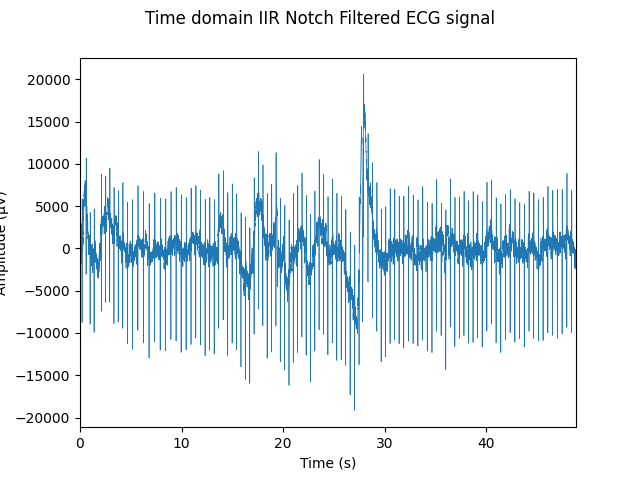
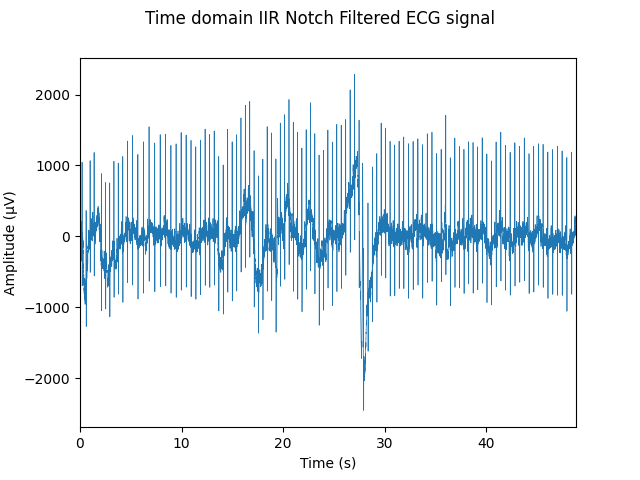
IIR working

diff --git a/main.py b/main.py
@@ -113,22 +113,23 @@ def calculateGainFactor(numerator, denominator, passband_freq, sampling_freq):
 
     # Calculate the value of the numerator and denominator by iterating through each tap
     exp_array = [1, np.exp(1j * 2 * np.pi * passband_freq), np.exp(2j * 2 * np.pi * passband_freq)]
-    #numerator_sum = np.dot(numerator, exp_array)
-    #denominator_sum = np.dot(denominator, exp_array)
-    for delay_index in range(len(numerator)):
+    numerator_sum = np.dot(numerator, exp_array)
+    denominator_sum = np.dot(denominator, exp_array)
+    #for delay_index in range(len(numerator)):
 
         # Calculate the value of the numerator at tap
-        numerator_coeff = numerator[delay_index] # Extract numerator tap coefficent
-        numerator_sum += numerator_coeff * ((np.exp(1j * 2 * np.pi * angle)) ** (-delay_index)) # Add transfer function value to numerator sum
+       # numerator_coeff = numerator[delay_index] # Extract numerator tap coefficent
+        #numerator_sum += numerator_coeff * ((np.exp(1j * 2 * np.pi * angle)) ** (-delay_index)) # Add transfer function value to numerator sum
 
         # Calculate the value of the denominator at tap
-        denominator_coeff = denominator[delay_index] # Extract denominator tap coefficent
-        denominator_sum += denominator_coeff * ((np.exp(1j * angle)) ** (-delay_index))  # Add transfer function value to numerator sum
+       # denominator_coeff = denominator[delay_index] # Extract denominator tap coefficent
+       # denominator_sum += denominator_coeff * ((np.exp(1j * angle)) ** (-delay_index))  # Add transfer function value to numerator sum
 
-    # Calculate gain factor. At unity gain: gain_factor * numerator_sum/denominator_sum = 1
-    #gain_factor = denominator_sum/numerator_sum
+    # Calculate gain factor.
+    gain_factor = denominator_sum/numerator_sum # At unity gain: gain_factor * numerator_sum/denominator_sum = 1
+    real_gain_factor = np.real(gain_factor) # Take the real component of the gain factor
 
-    return gain_factor
+    return real_gain_factor
 
 
 
@@ -139,7 +140,6 @@ def createIIRNotchFilter(notch_freq, notch_width, sample_rate):
     gain_factor = calculateGainFactor(numerator, denominator, 10, sample_rate) # Calculate gain factors needed to get unity gain in passband
     normalised_numerator = np.array(numerator) * gain_factor  # Normalise passband of filters to unity gain
 
-    #return normalised_numerator, denominator
     return normalised_numerator, denominator
 
 

diff --git a/signalPlots.py b/signalPlots.py
@@ -139,9 +139,9 @@ def plotIIRNotchECGSpectrum(notch_frequency, notch_freq_data):
     """Calculate and plot the frequency spectrum of the ECG after filtering with an IIR notch filter"""
 
     IIRNotchECGSpectrum = plt.figure()
-    plt.plot(notch_frequency, 20 * np.log10(abs(notch_freq_data)), linewidth=SPECTRUM_LINE_WIDTH)
+    plt.plot(notch_frequency, 20 * np.log(abs(notch_freq_data)), linewidth=SPECTRUM_LINE_WIDTH)
     plt.xlabel("Frequency (Hz)")
-    plt.ylabel("Amplitude (dB)")
+    plt.ylabel("Amplitude (dB)x")
     plt.suptitle("Frequency Spectrum of the IIR Notch Filtered ECG signal")
     plt.xlim(notch_frequency[0], notch_frequency[-1]/2)  # Limit the x axis to locations with data points
 
@@ -149,11 +149,11 @@ def plotIIRNotchECGSpectrum(notch_frequency, notch_freq_data):
 
 
 
-def plotIIRNotchFilterResponse(numuerator, denominator, f_samp):
+def plotIIRNotchFilterResponse(numerator, denominator, f_samp):
     """Plot and return the frequency response (magnitude and phase) of the IIR notch filter"""
 
     # Calculate the frequency response
-    freq, response = freqz(numuerator, denominator, fs=f_samp)
+    freq, response = freqz(numerator, denominator, fs=f_samp)
 
     # Create plot
     IIRNotchFilterResponse, (IIR_ax1, IIR_ax2) = plt.subplots(2, 1)
@@ -161,8 +161,7 @@ def plotIIRNotchFilterResponse(numuerator, denominator, f_samp):
     plt.xlabel("Frequency (Hz)")
 
     # Plot magnitude response
-    #IIR_ax1.plot(freq, 20 * np.log10(abs(response))) # Plot magnitude in dB vs Hz
-    IIR_ax1.plot(freq, abs(response), linewidth=FILTER_LINE_WIDTH)  # Plot magnitude Hz
+    IIR_ax1.plot(freq, 20 * np.log(abs(response))) # Plot magnitude in dB vs Hz
     IIR_ax1.set_ylabel("Amplitude (dB)")
     IIR_ax1.set_xlim(freq[0], freq[-1])  # Limit the x axis from 0 to Nyquist frequency
 
